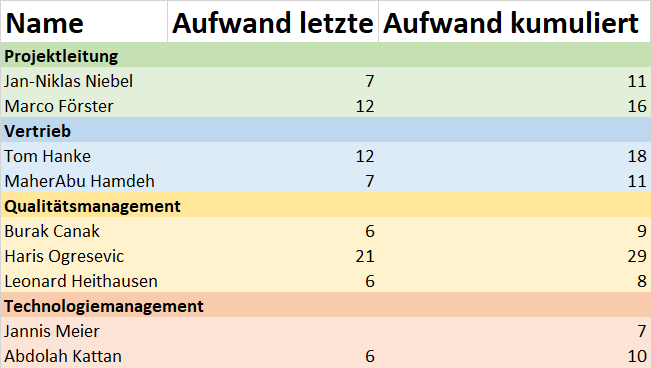
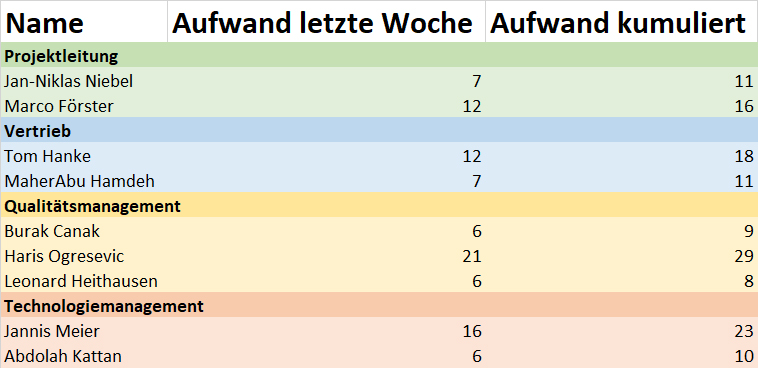
Jannis Stunden hinzugefügt

diff --git a/index.html b/index.html
@@ -67,15 +67,15 @@
 						"labels": ["41","42", "43"],
 						"datasets": [
 						{
-						"data":[19,28,77],
+						"data":[19,28,93],
 						"label":"Wochenaufwand","backgroundColor":"rgba(20,220,220, 0)", "borderColor": "#004586"
 						},
 						{
-						"data":[581,553,476],
+						"data":[581,553,460],
 						"label":"Restaufwand","backgroundColor":"rgba(220,120,120,0)", "borderColor": "#ff410e"
 						},
 						{
-						"data":[19,47,124],
+						"data":[19,47,140],
 						"label":"Ist-Aufwand","backgroundColor":"rgba(220,120,120,0)", "borderColor": "#ffd52c"
 						},
 						{
